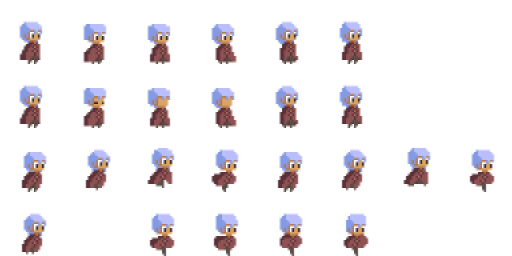
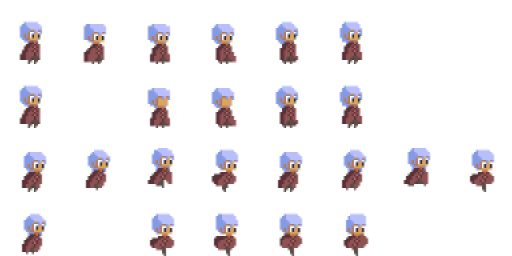
aaaaa

Changed region(s): [[0.1562, 0.3438, 0.2188, 0.5]]

diff --git a/ShooterGame/ImageManager.cpp b/ShooterGame/ImageManager.cpp
@@ -235,6 +235,7 @@ void ImageManager::SetUp(ActorType actor)
 		resources_[static_cast<int>(actor)].actionNameSet.try_emplace("run", std::make_pair(std::make_pair(16, 23), true));
 		resources_[static_cast<int>(actor)].actionNameSet.try_emplace("jump", std::make_pair(std::make_pair(24, 24), false));
 		resources_[static_cast<int>(actor)].actionNameSet.try_emplace("fall", std::make_pair(std::make_pair(26, 29), false));
+		resources_[static_cast<int>(actor)].actionNameSet.try_emplace("hit", std::make_pair(std::make_pair(9, 11), false));
 
 		break;
 

diff --git a/ShooterGame/ControlledPlayer.cpp b/ShooterGame/ControlledPlayer.cpp
@@ -57,7 +57,7 @@ void ControlledPlayer::UpDate(void)
 
 	auto weaponMoveSmallAmount = animationCount_ - 3.0f;
 
-	if (currentAnimation_ == "attack")
+	if (currentAnimation_ == "hit")
 	{
 		if (isAnimEnd_)
 		{
@@ -252,6 +252,12 @@ void ControlledPlayer::UpDate(void)
 		jumpSpeed_ = 0;
 		jumpForce_ = 0.0f;
 		isJump_ = false;
+	}
+
+	if (onDamaged_)
+	{
+		//ChangeAnimation("hit");
+		onDamaged_ = false;
 	}
 
 	UpDateAnimation(currentAnimation_);

diff --git a/ShooterGame/Pod.cpp b/ShooterGame/Pod.cpp
@@ -24,6 +24,7 @@ Pod::Pod(Vector2I pos,
 	aiCollider_ = std::make_unique<AICollider>();
 	aiSystem_ = std::make_shared<PodAI>(*this);
 	damageRate_ = 10.0f;
+	attackRate_ = 2.0f;
 	hp_ = 100;
 
 	lpImage.LoadDiv("podmuzzleFlash", Vector2I(55, 60), Vector2I(5, 1));

diff --git a/ShooterGame/Bigboy.cpp b/ShooterGame/Bigboy.cpp
@@ -17,6 +17,7 @@ Bigboy::Bigboy(Vector2I pos, int z, ActorType type,
 
 	hp_ = 100;
 	damageRate_ = 1.0f;
+	attackRate_ = 10.0f;
 	Initialize();
 	Actor::Initialize();
 	ChangeAnimation("idle");

diff --git a/ShooterGame/BulletBase.h b/ShooterGame/BulletBase.h
@@ -39,6 +39,11 @@ public:
 		return type_;
 	}
 
+	virtual const int& GetZPos(void) const
+	{
+		return z_;
+	}
+
 	void SetAnimation(std::string animName);
 
 private:
